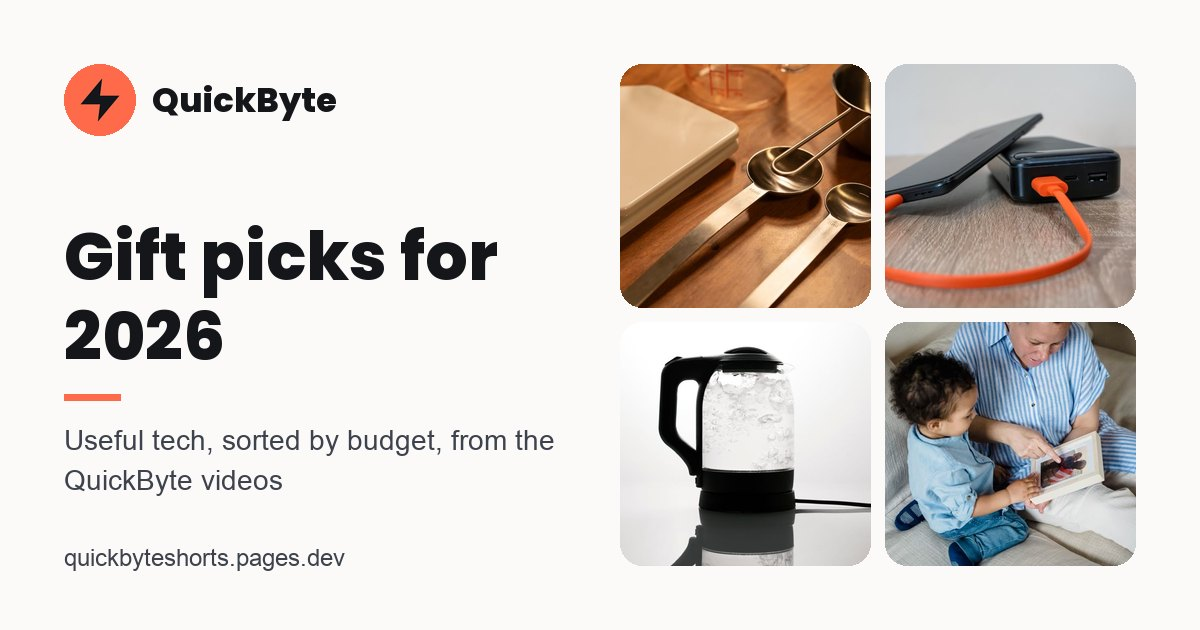
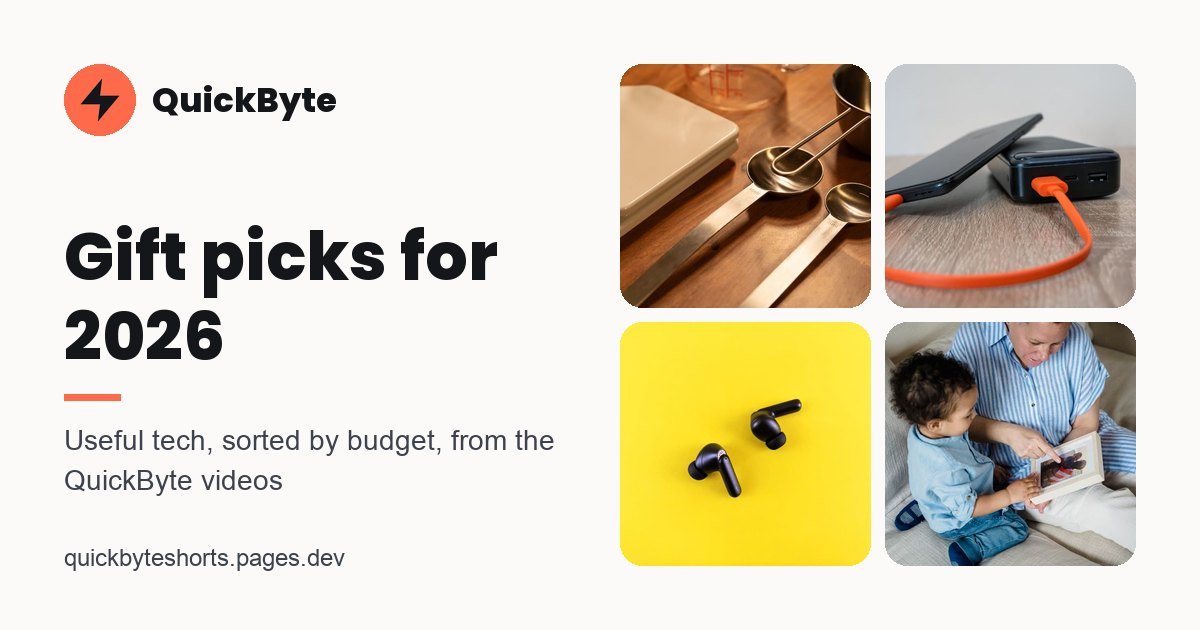
Automated cycle: update landing page

Changed region(s): [[0.4933, 0.4825, 0.74, 0.9048]]

diff --git a/docs/index.html b/docs/index.html
@@ -89,7 +89,7 @@ footer{color:var(--muted);font-size:.82rem;text-align:center;padding:24px 20px 3
 footer a{color:inherit}
 @media (max-width:520px){.season{font-size:1.45rem}.wrap{padding-top:26px}.feature .name{font-size:1.15rem}}
 </style>
-<script type="application/ld+json">{"@context": "https://schema.org", "@graph": [{"@type": "WebSite", "@id": "https://quickbyteshorts.pages.dev/#website", "name": "QuickByte", "url": "https://quickbyteshorts.pages.dev/", "description": "Short videos on which tech is worth buying, and which isn't"}, {"@type": "ItemList", "name": "Gift picks for 2026", "numberOfItems": 28, "itemListElement": [{"@type": "ListItem", "position": 1, "name": "Digital kitchen scale", "url": "https://quickbyteshorts.pages.dev/#pick-kitchen-scale"}, {"@type": "ListItem", "position": 2, "name": "ThermoPro TP19H instant-read thermometer", "url": "https://quickbyteshorts.pages.dev/#pick-thermopro-tp19h"}, {"@type": "ListItem", "position": 3, "name": "Tile Mate tracker", "url": "https://quickbyteshorts.pages.dev/#pick-tile-mate"}, {"@type": "ListItem", "position": 4, "name": "Anker Nano 30W USB-C charger", "url": "https://quickbyteshorts.pages.dev/#pick-anker-nano-charger"}, {"@type": "ListItem", "position": 5, "name": "UGREEN 240W USB-C cable (USB4)", "url": "https://quickbyteshorts.pages.dev/#pick-ugreen-usb4-cable"}, {"@type": "ListItem", "position": 6, "name": "Anker Nano power bank (10,000mAh)", "url": "https://quickbyteshorts.pages.dev/#pick-anker-nano-power-bank"}, {"@type": "ListItem", "position": 7, "name": "Redragon K552 mechanical keyboard", "url": "https://quickbyteshorts.pages.dev/#pick-redragon-k552-keyboard"}, {"@type": "ListItem", "position": 8, "name": "Echo Pop or Nest Mini", "url": "https://quickbyteshorts.pages.dev/#pick-smart-speaker"}, {"@type": "ListItem", "position": 9, "name": "4K streaming stick", "url": "https://quickbyteshorts.pages.dev/#pick-streaming-stick"}, {"@type": "ListItem", "position": 10, "name": "Belkin Qi2 magnetic charger", "url": "https://quickbyteshorts.pages.dev/#pick-belkin-qi2-charger"}, {"@type": "ListItem", "position": 11, "name": "Variable-temperature gooseneck kettle", "url": "https://quickbyteshorts.pages.dev/#pick-gooseneck-kettle"}, {"@type": "ListItem", "position": 12, "name": "Cosori Pro LE 5-quart air fryer", "url": "https://quickbyteshorts.pages.dev/#pick-cosori-air-fryer-5qt"}, {"@type": "ListItem", "position": 13, "name": "Kodak Step mini photo printer", "url": "https://quickbyteshorts.pages.dev/#pick-kodak-step-printer"}, {"@type": "ListItem", "position": 14, "name": "Soundcore Liberty 4 NC earbuds", "url": "https://quickbyteshorts.pages.dev/#pick-soundcore-liberty-4-nc"}, {"@type": "ListItem", "position": 15, "name": "Wi-Fi photo frame", "url": "https://quickbyteshorts.pages.dev/#pick-wifi-photo-frame"}, {"@type": "ListItem", "position": 16, "name": "Baratza Encore burr grinder", "url": "https://quickbyteshorts.pages.dev/#pick-baratza-encore"}, {"@type": "ListItem", "position": 17, "name": "Kindle Paperwhite", "url": "https://quickbyteshorts.pages.dev/#pick-kindle-paperwhite"}, {"@type": "ListItem", "position": 18, "name": "MagicFiber microfiber cloths (6-pack)", "url": "https://quickbyteshorts.pages.dev/#pick-magicfiber-cloths"}, {"@type": "ListItem", "position": 19, "name": "5-speed hand mixer", "url": "https://quickbyteshorts.pages.dev/#pick-hand-mixer"}, {"@type": "ListItem", "position": 20, "name": "65W two-port USB-C charger", "url": "https://quickbyteshorts.pages.dev/#pick-usb-c-65w-charger"}, {"@type": "ListItem", "position": 21, "name": "IP67 clip-on Bluetooth speaker", "url": "https://quickbyteshorts.pages.dev/#pick-ip67-bluetooth-speaker"}, {"@type": "ListItem", "position": 22, "name": "Qi2 3-in-1 stand with Apple Watch charger", "url": "https://quickbyteshorts.pages.dev/#pick-qi2-3-in-1-stand"}, {"@type": "ListItem", "position": 23, "name": "1080p mini projector with Google TV", "url": "https://quickbyteshorts.pages.dev/#pick-mini-projector-google-tv"}, {"@type": "ListItem", "position": 24, "name": "Dual-basket air fryer (8 qt)", "url": "https://quickbyteshorts.pages.dev/#pick-dual-basket-air-fryer"}, {"@type": "ListItem", "position": 25, "name": "Samsung 870 EVO SSD (500GB)", "url": "https://quickbyteshorts.pages.dev/#pick-samsung-870-evo-ssd"}, {"@type": "ListItem", "position": 26, "name": "Leave-in probe meat thermometer", "url": "https://quickbyteshorts.pages.dev/#pick-leave-in-meat-thermometer"}, {"@type": "ListItem", "position": 27, "name": "27-inch 1440p monitor", "url": "https://quickbyteshorts.pages.dev/#pick-monitor-27-1440p"}, {"@type": "ListItem", "position": 28, "name": "Robot vacuum with lidar", "url": "https://quickbyteshorts.pages.dev/#pick-lidar-robot-vacuum"}]}]}</script>
+<script type="application/ld+json">{"@context": "https://schema.org", "@graph": [{"@type": "WebSite", "@id": "https://quickbyteshorts.pages.dev/#website", "name": "QuickByte", "url": "https://quickbyteshorts.pages.dev/", "description": "Short videos on which tech is worth buying, and which isn't"}, {"@type": "ItemList", "name": "Gift picks for 2026", "numberOfItems": 28, "itemListElement": [{"@type": "ListItem", "position": 1, "name": "Digital kitchen scale", "url": "https://quickbyteshorts.pages.dev/#pick-kitchen-scale"}, {"@type": "ListItem", "position": 2, "name": "ThermoPro TP19H instant-read thermometer", "url": "https://quickbyteshorts.pages.dev/#pick-thermopro-tp19h"}, {"@type": "ListItem", "position": 3, "name": "Tile Mate tracker", "url": "https://quickbyteshorts.pages.dev/#pick-tile-mate"}, {"@type": "ListItem", "position": 4, "name": "Anker Nano 30W USB-C charger", "url": "https://quickbyteshorts.pages.dev/#pick-anker-nano-charger"}, {"@type": "ListItem", "position": 5, "name": "UGREEN 240W USB-C cable (USB4)", "url": "https://quickbyteshorts.pages.dev/#pick-ugreen-usb4-cable"}, {"@type": "ListItem", "position": 6, "name": "Anker Nano power bank (10,000mAh)", "url": "https://quickbyteshorts.pages.dev/#pick-anker-nano-power-bank"}, {"@type": "ListItem", "position": 7, "name": "Redragon K552 mechanical keyboard", "url": "https://quickbyteshorts.pages.dev/#pick-redragon-k552-keyboard"}, {"@type": "ListItem", "position": 8, "name": "Echo Pop or Nest Mini", "url": "https://quickbyteshorts.pages.dev/#pick-smart-speaker"}, {"@type": "ListItem", "position": 9, "name": "4K streaming stick", "url": "https://quickbyteshorts.pages.dev/#pick-streaming-stick"}, {"@type": "ListItem", "position": 10, "name": "Belkin Qi2 magnetic charger", "url": "https://quickbyteshorts.pages.dev/#pick-belkin-qi2-charger"}, {"@type": "ListItem", "position": 11, "name": "Soundcore Liberty 4 NC earbuds", "url": "https://quickbyteshorts.pages.dev/#pick-soundcore-liberty-4-nc"}, {"@type": "ListItem", "position": 12, "name": "Variable-temperature gooseneck kettle", "url": "https://quickbyteshorts.pages.dev/#pick-gooseneck-kettle"}, {"@type": "ListItem", "position": 13, "name": "Cosori Pro LE 5-quart air fryer", "url": "https://quickbyteshorts.pages.dev/#pick-cosori-air-fryer-5qt"}, {"@type": "ListItem", "position": 14, "name": "Kodak Step mini photo printer", "url": "https://quickbyteshorts.pages.dev/#pick-kodak-step-printer"}, {"@type": "ListItem", "position": 15, "name": "Wi-Fi photo frame", "url": "https://quickbyteshorts.pages.dev/#pick-wifi-photo-frame"}, {"@type": "ListItem", "position": 16, "name": "Baratza Encore burr grinder", "url": "https://quickbyteshorts.pages.dev/#pick-baratza-encore"}, {"@type": "ListItem", "position": 17, "name": "Kindle Paperwhite", "url": "https://quickbyteshorts.pages.dev/#pick-kindle-paperwhite"}, {"@type": "ListItem", "position": 18, "name": "MagicFiber microfiber cloths (6-pack)", "url": "https://quickbyteshorts.pages.dev/#pick-magicfiber-cloths"}, {"@type": "ListItem", "position": 19, "name": "5-speed hand mixer", "url": "https://quickbyteshorts.pages.dev/#pick-hand-mixer"}, {"@type": "ListItem", "position": 20, "name": "65W two-port USB-C charger", "url": "https://quickbyteshorts.pages.dev/#pick-usb-c-65w-charger"}, {"@type": "ListItem", "position": 21, "name": "IP67 clip-on Bluetooth speaker", "url": "https://quickbyteshorts.pages.dev/#pick-ip67-bluetooth-speaker"}, {"@type": "ListItem", "position": 22, "name": "Qi2 3-in-1 stand with Apple Watch charger", "url": "https://quickbyteshorts.pages.dev/#pick-qi2-3-in-1-stand"}, {"@type": "ListItem", "position": 23, "name": "1080p mini projector with Google TV", "url": "https://quickbyteshorts.pages.dev/#pick-mini-projector-google-tv"}, {"@type": "ListItem", "position": 24, "name": "Dual-basket air fryer (8 qt)", "url": "https://quickbyteshorts.pages.dev/#pick-dual-basket-air-fryer"}, {"@type": "ListItem", "position": 25, "name": "Samsung 870 EVO SSD (500GB)", "url": "https://quickbyteshorts.pages.dev/#pick-samsung-870-evo-ssd"}, {"@type": "ListItem", "position": 26, "name": "Leave-in probe meat thermometer", "url": "https://quickbyteshorts.pages.dev/#pick-leave-in-meat-thermometer"}, {"@type": "ListItem", "position": 27, "name": "27-inch 1440p monitor", "url": "https://quickbyteshorts.pages.dev/#pick-monitor-27-1440p"}, {"@type": "ListItem", "position": 28, "name": "Robot vacuum with lidar", "url": "https://quickbyteshorts.pages.dev/#pick-lidar-robot-vacuum"}]}]}</script>
 </head>
 <body>
 <div class="wrap">
@@ -98,18 +98,18 @@ footer a{color:inherit}
 <nav class="socials" aria-label="QuickByte on social media"><a href="https://www.youtube.com/@quickbytetips" target="_blank" rel="noopener me">YouTube</a><a href="https://www.tiktok.com/@quickbytetips" target="_blank" rel="noopener me">TikTok</a><a href="https://www.instagram.com/quickbytetips" target="_blank" rel="noopener me">Instagram</a></nav>
 <p class="disc">The Amazon links on this page are affiliate links. As an Amazon Associate I earn from qualifying purchases.</p>
 <main>
-<section class="latest" aria-labelledby="latest-h"><h2 id="latest-h">From today's video</h2><article class="feature"><div class="ph"><picture><source type="image/webp" srcset="img/usb-c-power-bank-with-pd-fast-charging-480.webp 480w, img/usb-c-power-bank-with-pd-fast-charging-800.webp 800w" sizes="(max-width:700px) calc(100vw - 40px), 500px"><img src="img/usb-c-power-bank-with-pd-fast-charging.jpg" alt="" width="800" height="600" fetchpriority="high" decoding="async"></picture></div><div class="body">
+<section class="latest" aria-labelledby="latest-h"><h2 id="latest-h">From today's video</h2><article class="feature"><div class="ph"><picture><source type="image/webp" srcset="img/noise-cancelling-wireless-earbuds-480.webp 480w, img/noise-cancelling-wireless-earbuds-800.webp 800w" sizes="(max-width:700px) calc(100vw - 40px), 500px"><img src="img/noise-cancelling-wireless-earbuds.jpg" alt="" width="800" height="600" fetchpriority="high" decoding="async"></picture></div><div class="body">
+<h3 class="name">Soundcore Liberty 4 NC earbuds</h3>
+<p class="seen">From the video: Tech gifts under $100: three worth the step up</p><p class="note">Strong noise cancelling for well under flagship prices. The included ear tips matter more than the brand.</p>
+<div class="row"><a class="buy" href="https://www.amazon.com/dp/B0BZV4QFP8?tag=quickbyte0f-20" target="_blank" rel="sponsored nofollow noopener">See it on Amazon</a><span class="paid">Paid link</span></div>
+</div></article><h2>Also from recent videos</h2><div class="grid wide"><article class="pick compact"><div class="ph"><picture><source type="image/webp" srcset="img/usb-c-power-bank-with-pd-fast-charging-480.webp 480w, img/usb-c-power-bank-with-pd-fast-charging-800.webp 800w" sizes="160px"><img src="img/usb-c-power-bank-with-pd-fast-charging.jpg" alt="" width="800" height="600" loading="lazy" decoding="async"></picture></div><div class="body">
 <h3 class="name">Anker Nano power bank (10,000mAh)</h3>
-<p class="seen">From the video: Tech gifts under $50: three that don&#x27;t end up in a drawer</p><p class="note">Built-in USB-C cable and 30W output, so it actually fast-charges a phone instead of trickling.</p>
-<div class="row"><a class="buy" href="https://www.amazon.com/dp/B0C9CJKCH3?tag=quickbyte0f-20" target="_blank" rel="sponsored nofollow noopener">See it on Amazon</a><span class="paid">Paid link</span></div>
-</div></article><h2>Also from recent videos</h2><div class="grid wide"><article class="pick compact"><div class="ph"><picture><source type="image/webp" srcset="img/digital-kitchen-scale-480.webp 480w, img/digital-kitchen-scale-800.webp 800w" sizes="160px"><img src="img/digital-kitchen-scale.jpg" alt="" width="800" height="600" loading="lazy" decoding="async"></picture></div><div class="body">
+<p class="seen">From: Tech gifts under $50: three that don&#x27;t end up in a drawer</p><p class="note">Built-in USB-C cable and 30W output, so it actually fast-charges a phone instead of trickling.</p>
+<div class="row"><a class="buy" href="https://www.amazon.com/dp/B0C9CJKCH3?tag=quickbyte0f-20" target="_blank" rel="sponsored nofollow noopener">See it on Amazon</a><span class="paid">Paid link</span><a class="watch" href="https://www.youtube.com/shorts/6zZ2KSl1UVI" target="_blank" rel="noopener">Watch the video</a></div>
+</div></article><article class="pick compact"><div class="ph"><picture><source type="image/webp" srcset="img/digital-kitchen-scale-480.webp 480w, img/digital-kitchen-scale-800.webp 800w" sizes="160px"><img src="img/digital-kitchen-scale.jpg" alt="" width="800" height="600" loading="lazy" decoding="async"></picture></div><div class="body">
 <h3 class="name">Digital kitchen scale</h3>
 <p class="seen">From: $15 kitchen scale vs measuring cups: why the same cookies come out different</p><p class="note">Weighing flour instead of scooping it is the easiest way to make a recipe come out the same every time.</p>
 <div class="row"><a class="buy" href="https://www.amazon.com/s?k=digital+kitchen+scale+grams&amp;tag=quickbyte0f-20" target="_blank" rel="sponsored nofollow noopener">See it on Amazon</a><span class="paid">Paid link</span><a class="watch" href="https://www.youtube.com/shorts/U-2rYlqlXjU" target="_blank" rel="noopener">Watch the video</a></div>
-</div></article><article class="pick compact"><div class="ph"><picture><source type="image/webp" srcset="img/variable-temperature-electric-kettle-480.webp 480w, img/variable-temperature-electric-kettle-800.webp 800w" sizes="160px"><img src="img/variable-temperature-electric-kettle.jpg" alt="" width="800" height="600" loading="lazy" decoding="async"></picture></div><div class="body">
-<h3 class="name">Variable-temperature gooseneck kettle</h3>
-<p class="seen">From: Electric kettle gift: skip the $90 one unless they drink tea</p><p class="note">Worth it for tea and pour-over people, since green tea wants water well under boiling. Everyone else is fine with a basic kettle.</p>
-<div class="row"><a class="buy" href="https://www.amazon.com/s?k=variable+temperature+gooseneck+electric+kettle&amp;tag=quickbyte0f-20" target="_blank" rel="sponsored nofollow noopener">See it on Amazon</a><span class="paid">Paid link</span><a class="watch" href="https://www.youtube.com/shorts/cXiSVvgaVZo" target="_blank" rel="noopener">Watch the video</a></div>
 </div></article></div></section><h1 class="season" id="gifts">Gift picks for 2026</h1><p class="season-sub">Each pick comes from a QuickByte video (a few of those videos are still on the way). Useful things, sensibly priced, that we'd tell a friend to buy. Sorted by budget.</p><nav class="jump" aria-label="Budgets"><a href="#under-25">Under $25</a><a href="#under-50">Under $50</a><a href="#under-100">Under $100</a><a href="#worth-the-splurge">Worth the splurge</a></nav><h2 id="under-25">Under $25</h2><div class="grid"><article class="pick" id="pick-kitchen-scale"><div class="ph"><picture><source type="image/webp" srcset="img/digital-kitchen-scale-480.webp 480w, img/digital-kitchen-scale-800.webp 800w" sizes="(max-width:640px) calc(100vw - 40px), 320px"><img src="img/digital-kitchen-scale.jpg" alt="" width="800" height="600" loading="lazy" decoding="async"></picture></div><div class="body">
 <h3 class="name">Digital kitchen scale</h3>
 <p class="note">Weighing flour instead of scooping it is the easiest way to make a recipe come out the same every time.</p>
@@ -137,7 +137,7 @@ footer a{color:inherit}
 </div></article></div><h2 id="under-50">Under $50</h2><div class="grid"><article class="pick" id="pick-anker-nano-power-bank"><div class="ph"><picture><source type="image/webp" srcset="img/usb-c-power-bank-with-pd-fast-charging-480.webp 480w, img/usb-c-power-bank-with-pd-fast-charging-800.webp 800w" sizes="(max-width:640px) calc(100vw - 40px), 320px"><img src="img/usb-c-power-bank-with-pd-fast-charging.jpg" alt="" width="800" height="600" loading="lazy" decoding="async"></picture></div><div class="body">
 <h3 class="name">Anker Nano power bank (10,000mAh)</h3>
 <p class="note">Built-in USB-C cable and 30W output, so it actually fast-charges a phone instead of trickling.</p>
-<div class="row"><a class="buy" href="https://www.amazon.com/dp/B0C9CJKCH3?tag=quickbyte0f-20" target="_blank" rel="sponsored nofollow noopener">See it on Amazon</a><span class="paid">Paid link</span></div>
+<div class="row"><a class="buy" href="https://www.amazon.com/dp/B0C9CJKCH3?tag=quickbyte0f-20" target="_blank" rel="sponsored nofollow noopener">See it on Amazon</a><span class="paid">Paid link</span><a class="watch" href="https://www.youtube.com/shorts/6zZ2KSl1UVI" target="_blank" rel="noopener">Watch the video</a></div>
 </div></article><article class="pick" id="pick-redragon-k552-keyboard"><div class="ph"><picture><source type="image/webp" srcset="img/budget-mechanical-keyboard-480.webp 480w, img/budget-mechanical-keyboard-800.webp 800w" sizes="(max-width:640px) calc(100vw - 40px), 320px"><img src="img/budget-mechanical-keyboard.jpg" alt="" width="800" height="600" loading="lazy" decoding="async"></picture></div><div class="body">
 <h3 class="name">Redragon K552 mechanical keyboard</h3>
 <p class="note">A compact, sturdy mechanical board for a fraction of the big-name price. Great first keyboard for a teen or a new desk setup.</p>
@@ -162,7 +162,11 @@ footer a{color:inherit}
 <h3 class="name">65W two-port USB-C charger</h3>
 <p class="note">One small brick can charge a USB-C laptop and a phone at the same time, so you pack one charger instead of three.</p>
 <div class="row"><a class="buy" href="https://www.amazon.com/s?k=65W+USB+C+GaN+charger+2+port&amp;tag=quickbyte0f-20" target="_blank" rel="sponsored nofollow noopener">See it on Amazon</a><span class="paid">Paid link</span></div>
-</div></article></div><h2 id="under-100">Under $100</h2><div class="grid"><article class="pick" id="pick-gooseneck-kettle"><div class="ph"><picture><source type="image/webp" srcset="img/variable-temperature-electric-kettle-480.webp 480w, img/variable-temperature-electric-kettle-800.webp 800w" sizes="(max-width:640px) calc(100vw - 40px), 320px"><img src="img/variable-temperature-electric-kettle.jpg" alt="" width="800" height="600" loading="lazy" decoding="async"></picture></div><div class="body">
+</div></article></div><h2 id="under-100">Under $100</h2><div class="grid"><article class="pick" id="pick-soundcore-liberty-4-nc"><div class="ph"><picture><source type="image/webp" srcset="img/noise-cancelling-wireless-earbuds-480.webp 480w, img/noise-cancelling-wireless-earbuds-800.webp 800w" sizes="(max-width:640px) calc(100vw - 40px), 320px"><img src="img/noise-cancelling-wireless-earbuds.jpg" alt="" width="800" height="600" loading="lazy" decoding="async"></picture></div><div class="body">
+<h3 class="name">Soundcore Liberty 4 NC earbuds</h3>
+<p class="note">Strong noise cancelling for well under flagship prices. The included ear tips matter more than the brand.</p>
+<div class="row"><a class="buy" href="https://www.amazon.com/dp/B0BZV4QFP8?tag=quickbyte0f-20" target="_blank" rel="sponsored nofollow noopener">See it on Amazon</a><span class="paid">Paid link</span></div>
+</div></article><article class="pick" id="pick-gooseneck-kettle"><div class="ph"><picture><source type="image/webp" srcset="img/variable-temperature-electric-kettle-480.webp 480w, img/variable-temperature-electric-kettle-800.webp 800w" sizes="(max-width:640px) calc(100vw - 40px), 320px"><img src="img/variable-temperature-electric-kettle.jpg" alt="" width="800" height="600" loading="lazy" decoding="async"></picture></div><div class="body">
 <h3 class="name">Variable-temperature gooseneck kettle</h3>
 <p class="note">Worth it for tea and pour-over people, since green tea wants water well under boiling. Everyone else is fine with a basic kettle.</p>
 <div class="row"><a class="buy" href="https://www.amazon.com/s?k=variable+temperature+gooseneck+electric+kettle&amp;tag=quickbyte0f-20" target="_blank" rel="sponsored nofollow noopener">See it on Amazon</a><span class="paid">Paid link</span><a class="watch" href="https://www.youtube.com/shorts/cXiSVvgaVZo" target="_blank" rel="noopener">Watch the video</a></div>
@@ -174,10 +178,6 @@ footer a{color:inherit}
 <h3 class="name">Kodak Step mini photo printer</h3>
 <p class="note">Prints 2x3 sticky-back photos straight from a phone with no ink to buy, which teens use for journals and lockers.</p>
 <div class="row"><a class="buy" href="https://www.amazon.com/dp/B08C6YGH12?tag=quickbyte0f-20" target="_blank" rel="sponsored nofollow noopener">See it on Amazon</a><span class="paid">Paid link</span><a class="watch" href="https://www.youtube.com/shorts/JxijiXfsUYc" target="_blank" rel="noopener">Watch the video</a></div>
-</div></article><article class="pick" id="pick-soundcore-liberty-4-nc"><div class="ph"><picture><source type="image/webp" srcset="img/noise-cancelling-wireless-earbuds-480.webp 480w, img/noise-cancelling-wireless-earbuds-800.webp 800w" sizes="(max-width:640px) calc(100vw - 40px), 320px"><img src="img/noise-cancelling-wireless-earbuds.jpg" alt="" width="800" height="600" loading="lazy" decoding="async"></picture></div><div class="body">
-<h3 class="name">Soundcore Liberty 4 NC earbuds</h3>
-<p class="note">Strong noise cancelling for well under flagship prices. The included ear tips matter more than the brand.</p>
-<div class="row"><a class="buy" href="https://www.amazon.com/dp/B0BZV4QFP8?tag=quickbyte0f-20" target="_blank" rel="sponsored nofollow noopener">See it on Amazon</a><span class="paid">Paid link</span><a class="watch" href="https://www.youtube.com/shorts/Ob7KcX-3izw" target="_blank" rel="noopener">Watch the video</a></div>
 </div></article><article class="pick" id="pick-ip67-bluetooth-speaker"><div class="ph"><picture><source type="image/webp" srcset="img/ip67-clip-on-bluetooth-speaker-480.webp 480w, img/ip67-clip-on-bluetooth-speaker-800.webp 800w" sizes="(max-width:640px) calc(100vw - 40px), 320px"><img src="img/ip67-clip-on-bluetooth-speaker.jpg" alt="" width="800" height="600" loading="lazy" decoding="async"></picture></div><div class="body">
 <h3 class="name">IP67 clip-on Bluetooth speaker</h3>
 <p class="note">IP67 means it can handle the beach, the shower and a dropped drink, and the clip hangs it off a bag.</p>
@@ -222,7 +222,7 @@ footer a{color:inherit}
 <h3 class="name">Robot vacuum with lidar</h3>
 <p class="note">The spinning lidar turret maps your rooms, so it cleans in rows instead of bumping around and missing spots.</p>
 <div class="row"><a class="buy" href="https://www.amazon.com/s?k=lidar+robot+vacuum&amp;tag=quickbyte0f-20" target="_blank" rel="sponsored nofollow noopener">See it on Amazon</a><span class="paid">Paid link</span></div>
-</div></article></div><p class="fine">We earn a small commission if you buy through these links, at no extra cost to you, and nobody pays to be on this page. Budget groups are based on typical prices when we chose each pick; Amazon shows the current price. Photos show the kind of product, not always the exact model.</p><h2 id="videos">Latest videos</h2><ul class="vids"><li><a href="https://www.youtube.com/shorts/U-2rYlqlXjU" target="_blank" rel="noopener"><span>$15 kitchen scale vs measuring cups: why the same cookies come out different</span><span>Watch</span></a></li><li><a href="https://www.youtube.com/shorts/cXiSVvgaVZo" target="_blank" rel="noopener"><span>Electric kettle gift: skip the $90 one unless they drink tea</span><span>Watch</span></a></li><li><a href="https://www.youtube.com/shorts/_B9pHnC_xZU" target="_blank" rel="noopener"><span>Don&#x27;t replace your phone until you check its battery health</span><span>Watch</span></a></li><li><a href="https://www.youtube.com/shorts/HVvog3n8l-w" target="_blank" rel="noopener"><span>The tech gift grandparents actually use every day</span><span>Watch</span></a></li><li><a href="https://www.youtube.com/shorts/fd2R2a-seAA" target="_blank" rel="noopener"><span>Don&#x27;t buy a new router until you try moving this one</span><span>Watch</span></a></li><li><a href="https://www.youtube.com/shorts/TIhSWZFW5S8" target="_blank" rel="noopener"><span>Before you buy an air fryer, check the quarts, not the presets</span><span>Watch</span></a></li><li><a href="https://www.youtube.com/shorts/8ClBSoIFT3Y" target="_blank" rel="noopener"><span>Smart ring vs smartwatch gift: check the monthly fee first</span><span>Watch</span></a></li><li><a href="https://www.youtube.com/shorts/R4IfBrMzpwg" target="_blank" rel="noopener"><span>Text codes vs an authenticator app: which one actually protects you?</span><span>Watch</span></a></li><li><a href="https://www.youtube.com/shorts/ZFj4xFhkAbg" target="_blank" rel="noopener"><span>Gifting a mechanical keyboard? Check the size before the switches</span><span>Watch</span></a></li><li><a href="https://www.youtube.com/shorts/BDD1H5pKqGc" target="_blank" rel="noopener"><span>Blade vs burr coffee grinder: why the $20 one tastes bitter</span><span>Watch</span></a></li><li><a href="https://www.youtube.com/shorts/7wMvowwUTyw" target="_blank" rel="noopener"><span>Echo or Nest? Pick the smart speaker that fits their home</span><span>Watch</span></a></li><li><a href="https://www.youtube.com/shorts/JrS-6aeftQ0" target="_blank" rel="noopener"><span>Don&#x27;t replace your slow old laptop until you check this one part</span><span>Watch</span></a></li></ul>
+</div></article></div><p class="fine">We earn a small commission if you buy through these links, at no extra cost to you, and nobody pays to be on this page. Budget groups are based on typical prices when we chose each pick; Amazon shows the current price. Photos show the kind of product, not always the exact model.</p><h2 id="videos">Latest videos</h2><ul class="vids"><li><a href="https://www.youtube.com/shorts/6zZ2KSl1UVI" target="_blank" rel="noopener"><span>Tech gifts under $50: three that don&#x27;t end up in a drawer</span><span>Watch</span></a></li><li><a href="https://www.youtube.com/shorts/U-2rYlqlXjU" target="_blank" rel="noopener"><span>$15 kitchen scale vs measuring cups: why the same cookies come out different</span><span>Watch</span></a></li><li><a href="https://www.youtube.com/shorts/cXiSVvgaVZo" target="_blank" rel="noopener"><span>Electric kettle gift: skip the $90 one unless they drink tea</span><span>Watch</span></a></li><li><a href="https://www.youtube.com/shorts/_B9pHnC_xZU" target="_blank" rel="noopener"><span>Don&#x27;t replace your phone until you check its battery health</span><span>Watch</span></a></li><li><a href="https://www.youtube.com/shorts/HVvog3n8l-w" target="_blank" rel="noopener"><span>The tech gift grandparents actually use every day</span><span>Watch</span></a></li><li><a href="https://www.youtube.com/shorts/fd2R2a-seAA" target="_blank" rel="noopener"><span>Don&#x27;t buy a new router until you try moving this one</span><span>Watch</span></a></li><li><a href="https://www.youtube.com/shorts/TIhSWZFW5S8" target="_blank" rel="noopener"><span>Before you buy an air fryer, check the quarts, not the presets</span><span>Watch</span></a></li><li><a href="https://www.youtube.com/shorts/8ClBSoIFT3Y" target="_blank" rel="noopener"><span>Smart ring vs smartwatch gift: check the monthly fee first</span><span>Watch</span></a></li><li><a href="https://www.youtube.com/shorts/R4IfBrMzpwg" target="_blank" rel="noopener"><span>Text codes vs an authenticator app: which one actually protects you?</span><span>Watch</span></a></li><li><a href="https://www.youtube.com/shorts/ZFj4xFhkAbg" target="_blank" rel="noopener"><span>Gifting a mechanical keyboard? Check the size before the switches</span><span>Watch</span></a></li><li><a href="https://www.youtube.com/shorts/BDD1H5pKqGc" target="_blank" rel="noopener"><span>Blade vs burr coffee grinder: why the $20 one tastes bitter</span><span>Watch</span></a></li><li><a href="https://www.youtube.com/shorts/7wMvowwUTyw" target="_blank" rel="noopener"><span>Echo or Nest? Pick the smart speaker that fits their home</span><span>Watch</span></a></li></ul>
 </main>
 </div>
 <footer>QuickByte &middot; @quickbytetips<br>As an Amazon Associate I earn from qualifying purchases. Amazon and the Amazon logo are trademarks of
